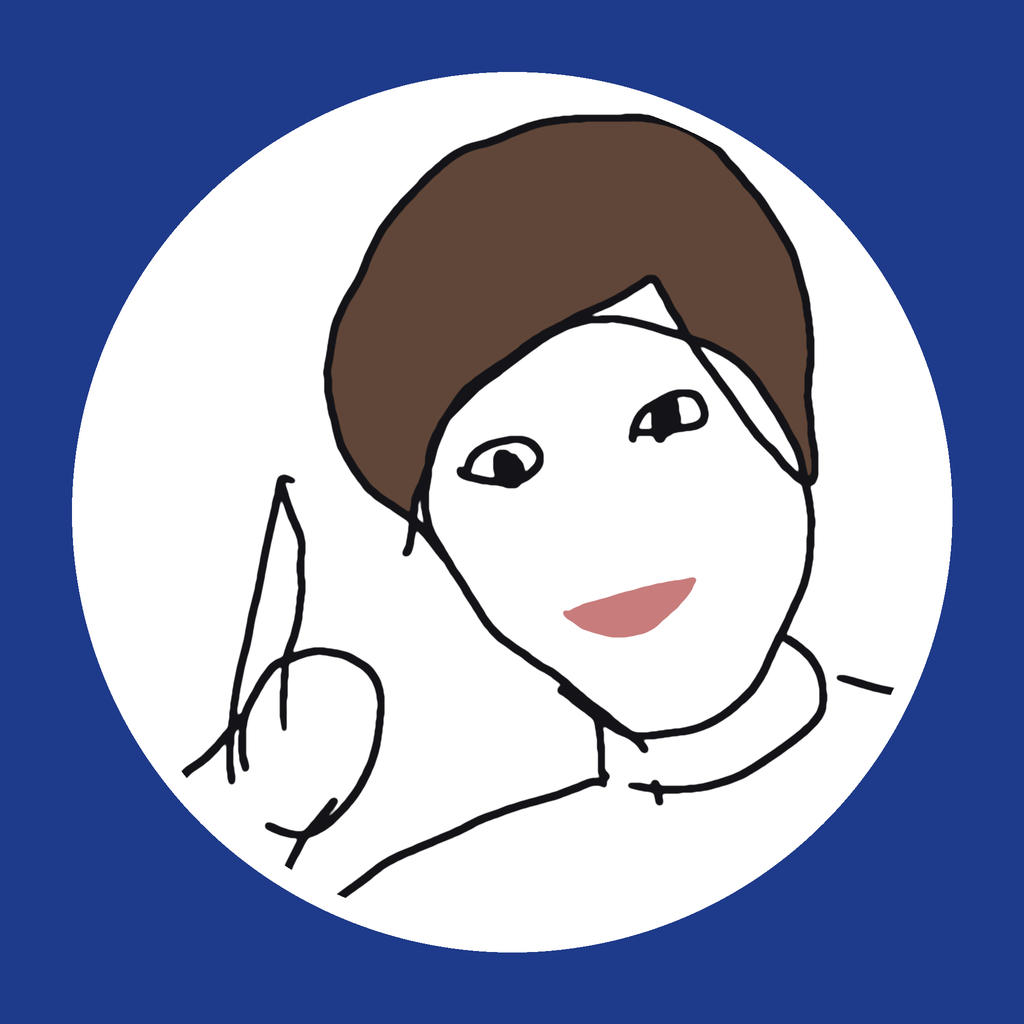
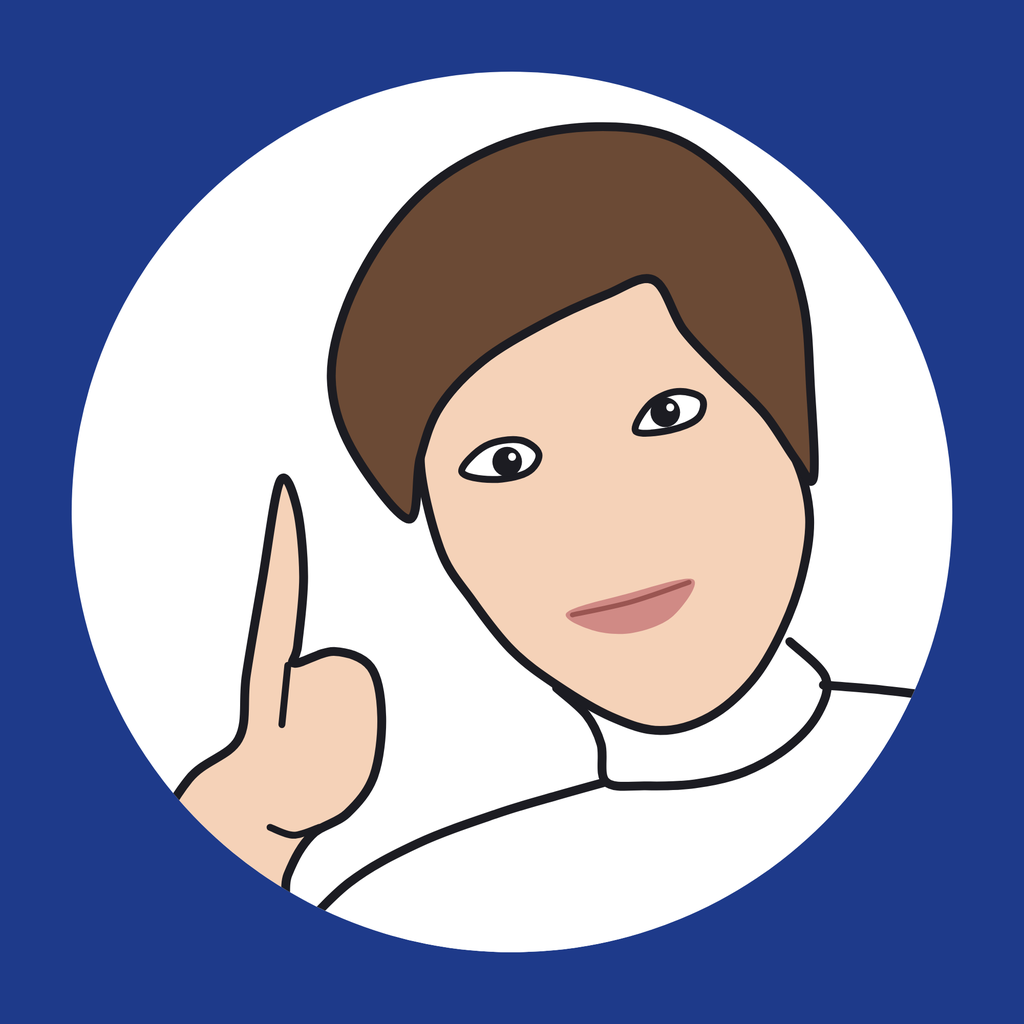
アイコンをベクターで描き直し（はみ出し・点を除去、肌色を追加）
Claude-Session: https://claude.ai/code/session_01GkBH6xXLbGBBmqMp44NaEA

diff --git a/sw.js b/sw.js
@@ -1,5 +1,5 @@
 // オフライン用。オンラインのときは常に最新を取りに行き（network-first）、つながらないときはキャッシュを使う。
-const CACHE = 'oretachi-v2';
+const CACHE = 'oretachi-v3';
 const SHELL = [
   './', 'index.html', 'style.css', 'app.js', 'manifest.webmanifest',
   'icons/icon-192.png', 'icons/icon-512.png', 'icons/apple-touch-icon.png', 'icons/favicon-32.png',
